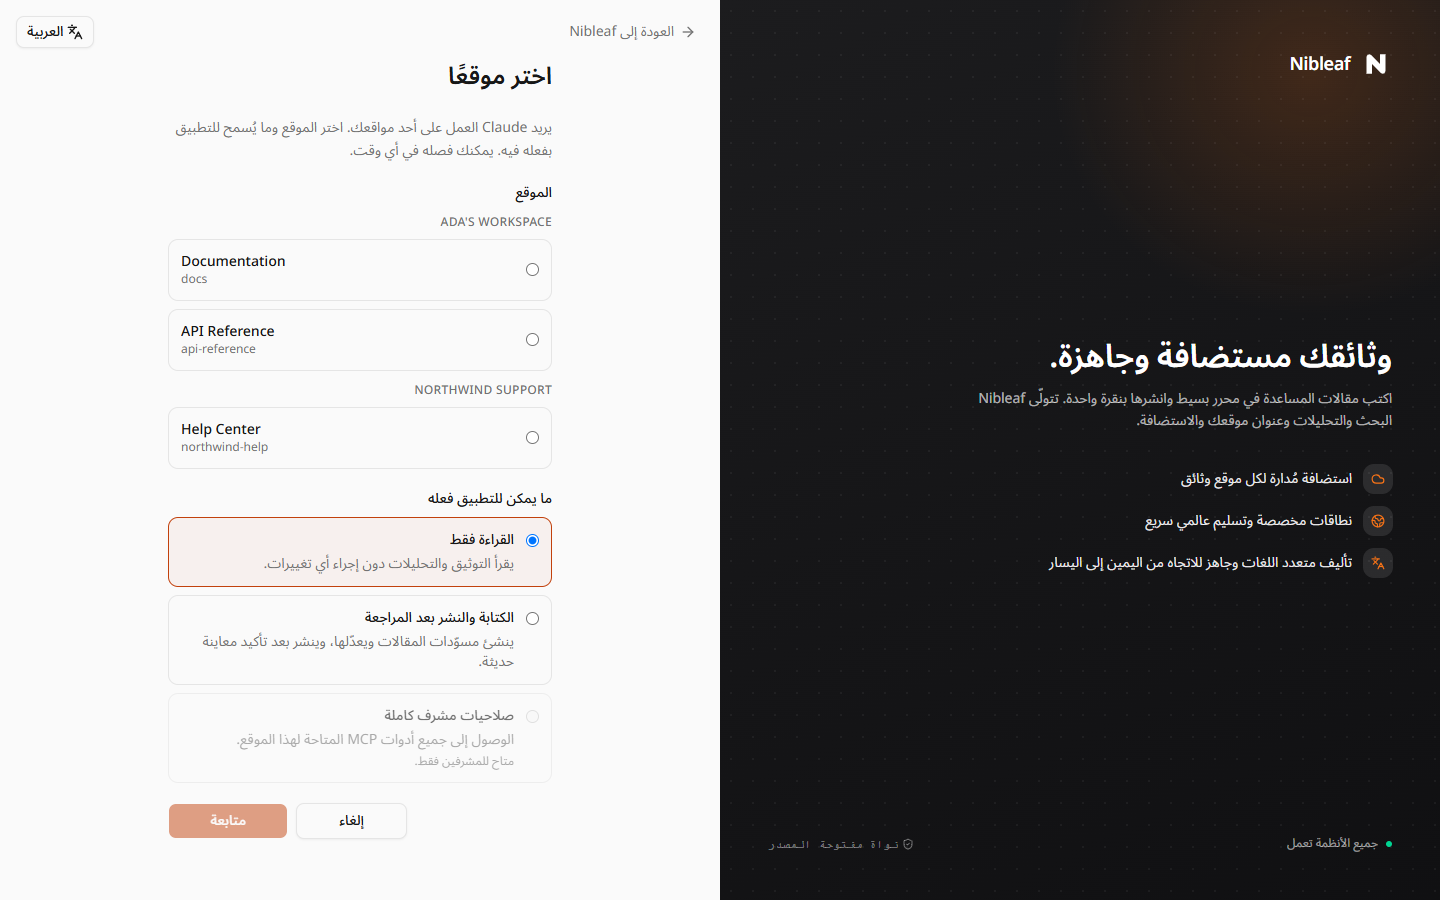
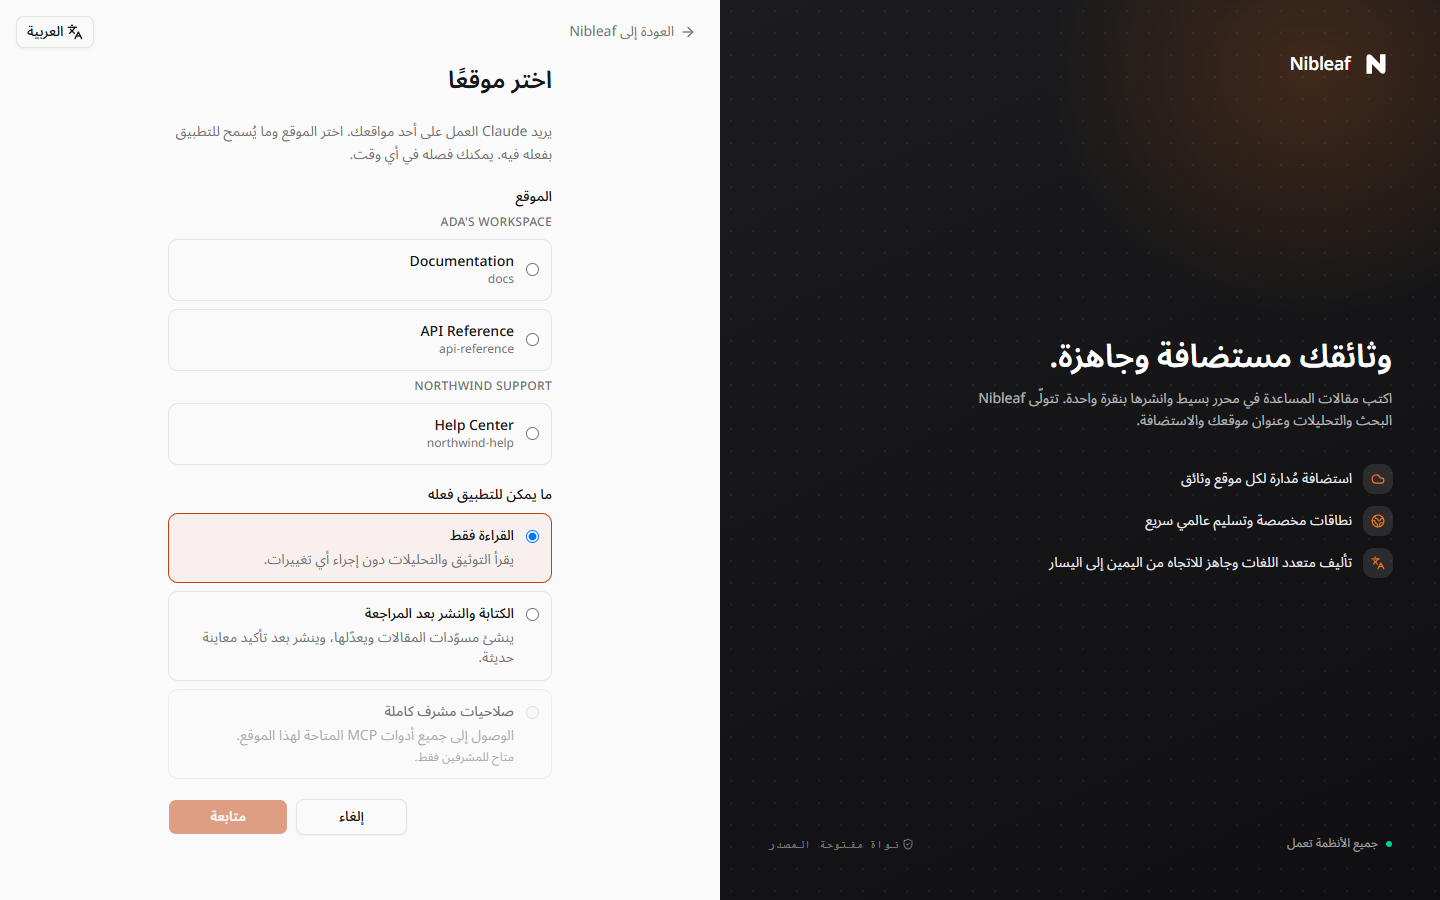
fix(mcp): Arabic alignment of website names and organization legends; re-captured sign-in pages

diff --git a/apps/app/src/components/oauth/mcp-oauth-steps.tsx b/apps/app/src/components/oauth/mcp-oauth-steps.tsx
@@ -196,10 +196,14 @@ function ProjectForm({ authorization, oauthQuery }: { authorization: McpOAuthAut
                 type="radio"
               />
               <span className="flex min-w-0 flex-1 flex-col">
-                <bdi className="truncate font-medium">{candidate.name}</bdi>
-                <bdi className="truncate text-muted-foreground text-xs" dir="ltr">
-                  {candidate.slug}
-                </bdi>
+                {/* The block keeps the page direction (start-aligned in Arabic); the inline
+                    <bdi> only isolates the Latin name or address inside it. */}
+                <span className="truncate text-start font-medium">
+                  <bdi>{candidate.name}</bdi>
+                </span>
+                <span className="truncate text-start text-muted-foreground text-xs">
+                  <bdi dir="ltr">{candidate.slug}</bdi>
+                </span>
               </span>
             </label>
           ));
@@ -207,7 +211,7 @@ function ProjectForm({ authorization, oauthQuery }: { authorization: McpOAuthAut
           // its legend; the websites under it keep one radio group (same name).
           return grouped ? (
             <fieldset className="flex flex-col gap-2" data-slot="organization-group" key={group.id}>
-              <legend className="mt-1 mb-2 font-medium text-muted-foreground text-xs uppercase tracking-wide">
+              <legend className="mt-1 mb-2 w-full text-start font-medium text-muted-foreground text-xs uppercase tracking-wide">
                 <bdi>{group.name}</bdi>
               </legend>
               {rows}
